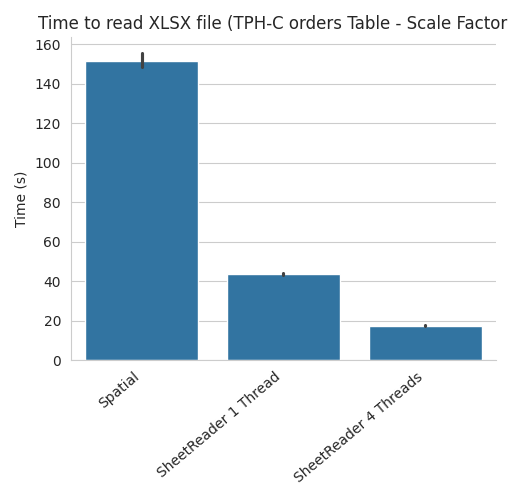
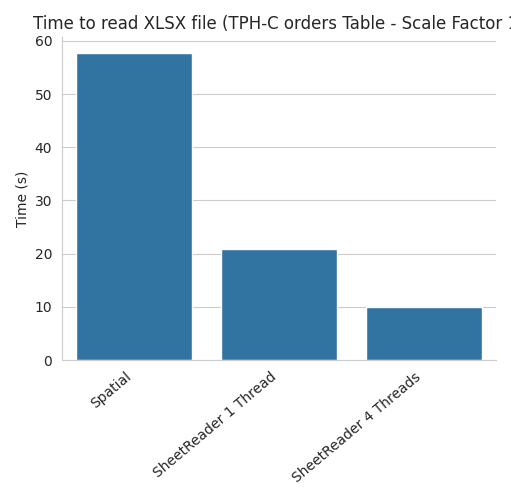
Use sf=1 plot for readme

diff --git a/README.md b/README.md
@@ -78,7 +78,7 @@ You can find benchmarks in the above-mentioned paper, comparing SheetReader to o
 Here is a plot of preliminary benchmarks comparing the `sheetreader` DuckDB extension to the `spatial` extension's `st_read` function:
 
 
-![Benchmark](./benchmarks/joined_barplot_benchmark_1000000_rows.png)
+![Benchmark](./benchmarks/joined_barplot_benchmark_sf_1.png)
 
 (*System info: 2x Intel(R) Xeon(R) E5530 @ 2.40GHz, 47GiB RAM*)
 
